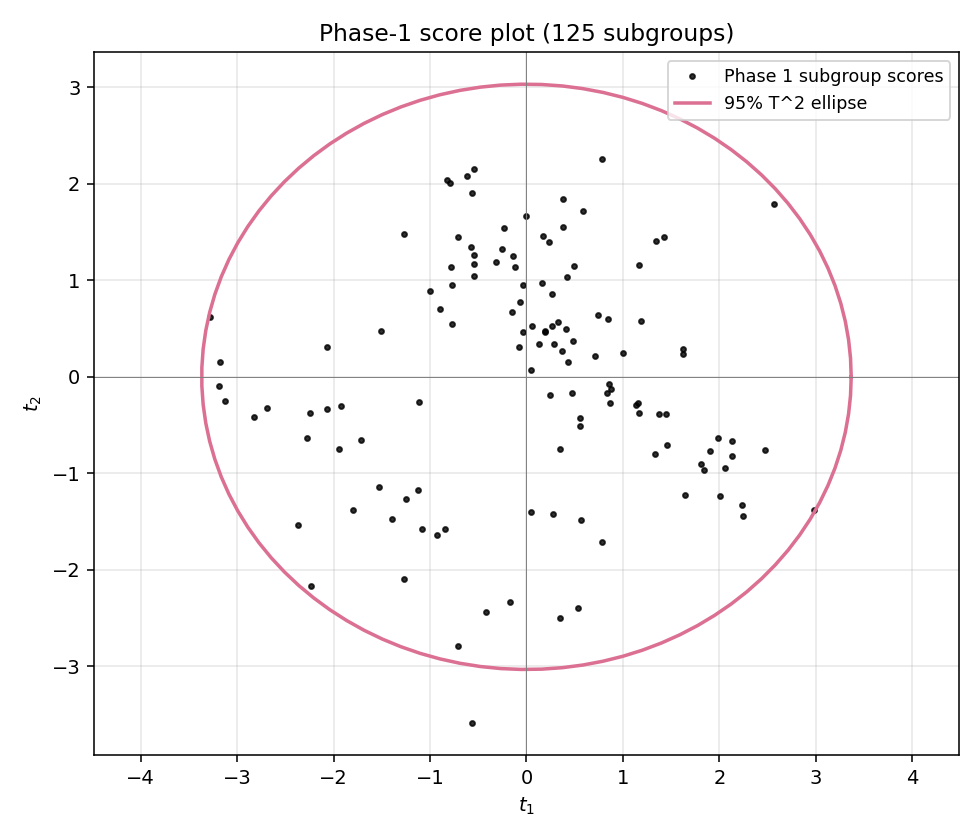
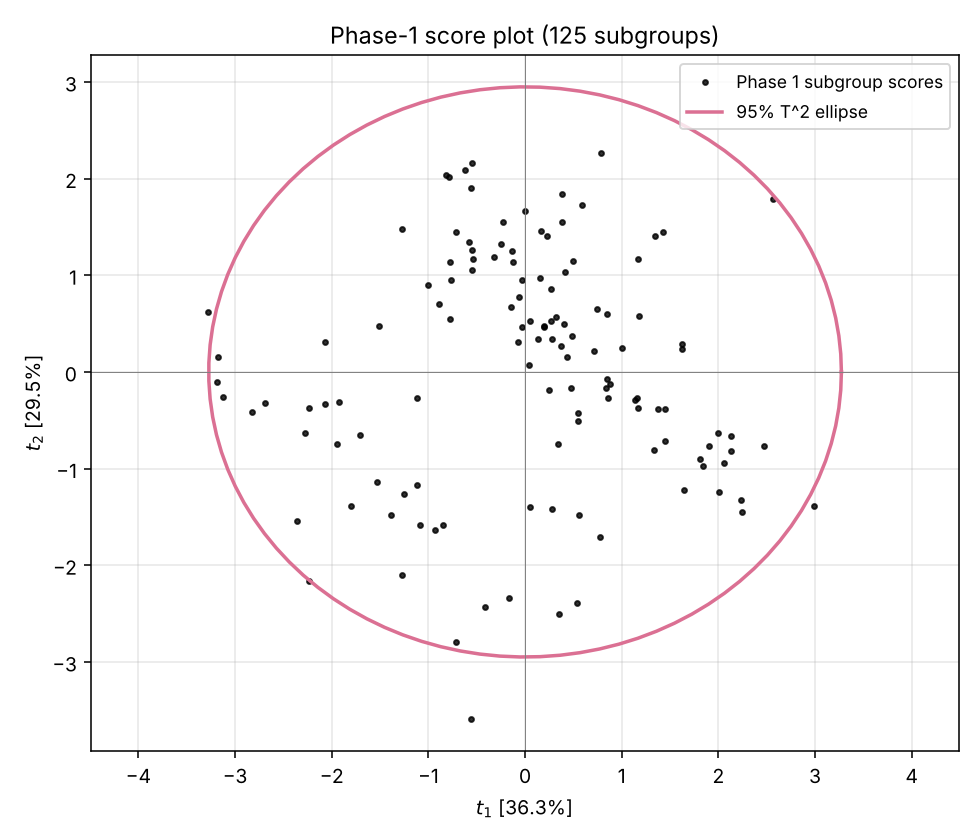
Flotation monitoring: the phase-1 ellipse judges fitted subgroups
The phase-1 score plot's ellipse encloses the subgroups the model was
fitted to (judged_rows="fitted"); the phase-2 limit judges new subgroups
(judged_rows="new", unchanged at 6.24). The axes now carry the variance
each component explains. diagnose's T2 is read from
cumulative_hotellings_t2, as process-improve 2.4.0 asks.

Claude-Session: https://claude.ai/code/session_01S4nNrQrezZa8Wt3JVywWoM

diff --git a/monitoring/flotation_monitoring_case.py b/monitoring/flotation_monitoring_case.py
@@ -154,15 +154,17 @@ def figure_shewhart(phase1, phase2, out: pathlib.Path) -> None:
 
 def figure_score_phase1(model, n_phase1_sub, out: pathlib.Path) -> None:
     scores = model.scores_
-    ci_x, ci_y = model.ellipse_coordinates(score_horiz=1, score_vert=2, conf_level=CONF_LEVEL)
+    # The ellipse encloses the phase-1 subgroups the model was fitted to, so it is drawn for fitted rows.
+    ci_x, ci_y = model.ellipse_coordinates(score_horiz=1, score_vert=2, conf_level=CONF_LEVEL, judged_rows="fitted")
 
     fig, ax = plt.subplots(figsize=(7, 6))
     ax.plot(scores.iloc[:, 0], scores.iloc[:, 1], "k.", markersize=5, alpha=0.8, label="Phase 1 subgroup scores")
     ax.plot(ci_x, ci_y, color="palevioletred", linewidth=1.8, label="95% T^2 ellipse")
     ax.axhline(0, color="grey", linewidth=0.5)
     ax.axvline(0, color="grey", linewidth=0.5)
-    ax.set_xlabel("$t_1$")
-    ax.set_ylabel("$t_2$")
+    r2 = model.r2_per_component_
+    ax.set_xlabel(f"$t_1$ [{r2.iloc[0]:.1%}]")
+    ax.set_ylabel(f"$t_2$ [{r2.iloc[1]:.1%}]")
     ax.set_title(f"Phase-1 score plot ({n_phase1_sub} subgroups)")
     ax.set_aspect("equal", adjustable="datalim")
     ax.legend(loc="upper right", fontsize=9)
@@ -304,9 +306,10 @@ def main() -> None:
 
     p2_scaled = scaler.transform(p2_sub)
     result = model.diagnose(p2_scaled)
-    t2 = result.hotellings_t2.iloc[:, -1]
+    t2 = result.cumulative_hotellings_t2.iloc[:, -1]
     spe = result.spe
-    t2_lim = float(model.hotellings_t2_limit(conf_level=CONF_LEVEL))
+    # Phase-2 subgroups are new rows to the model, so their T2 limit is the one for new rows.
+    t2_lim = float(model.hotellings_t2_limit(conf_level=CONF_LEVEL, judged_rows="new"))
     spe_lim = float(model.spe_limit(conf_level=CONF_LEVEL))
     print(f"95% T^2 limit: {t2_lim:.2f}   95% SPE limit: {spe_lim:.2f}")
 
